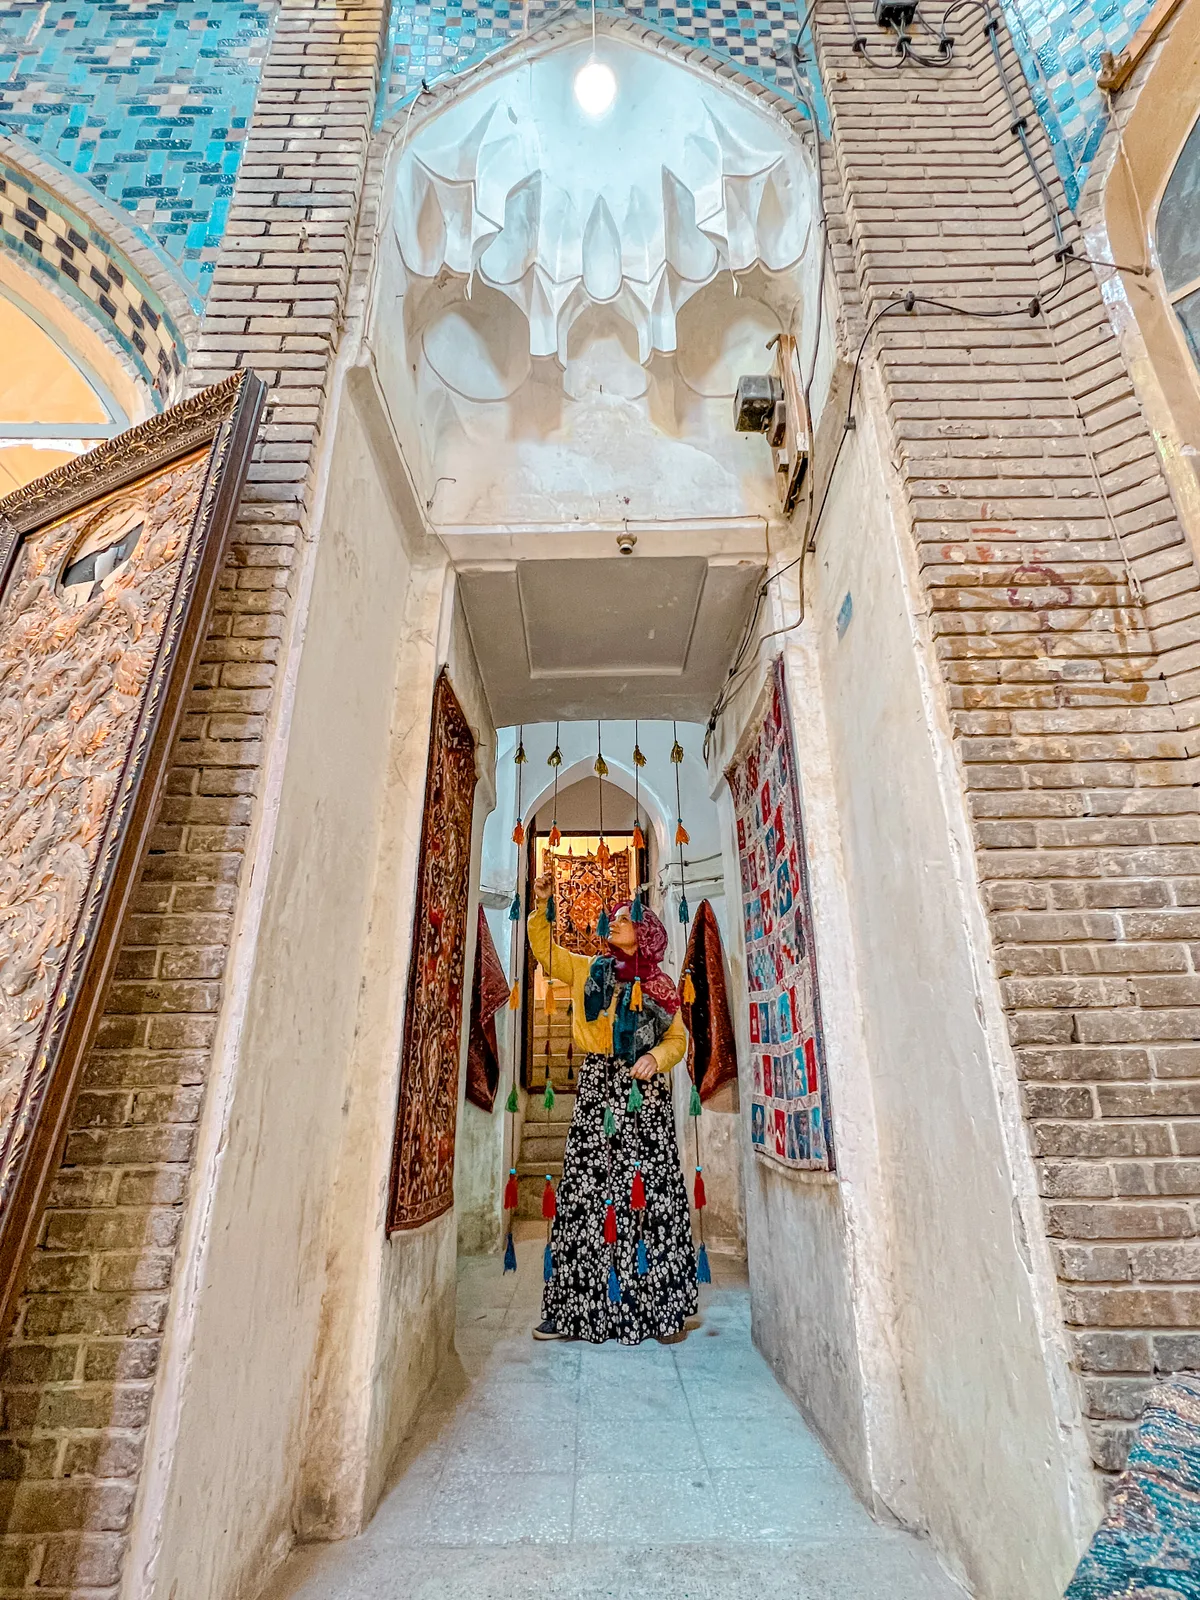
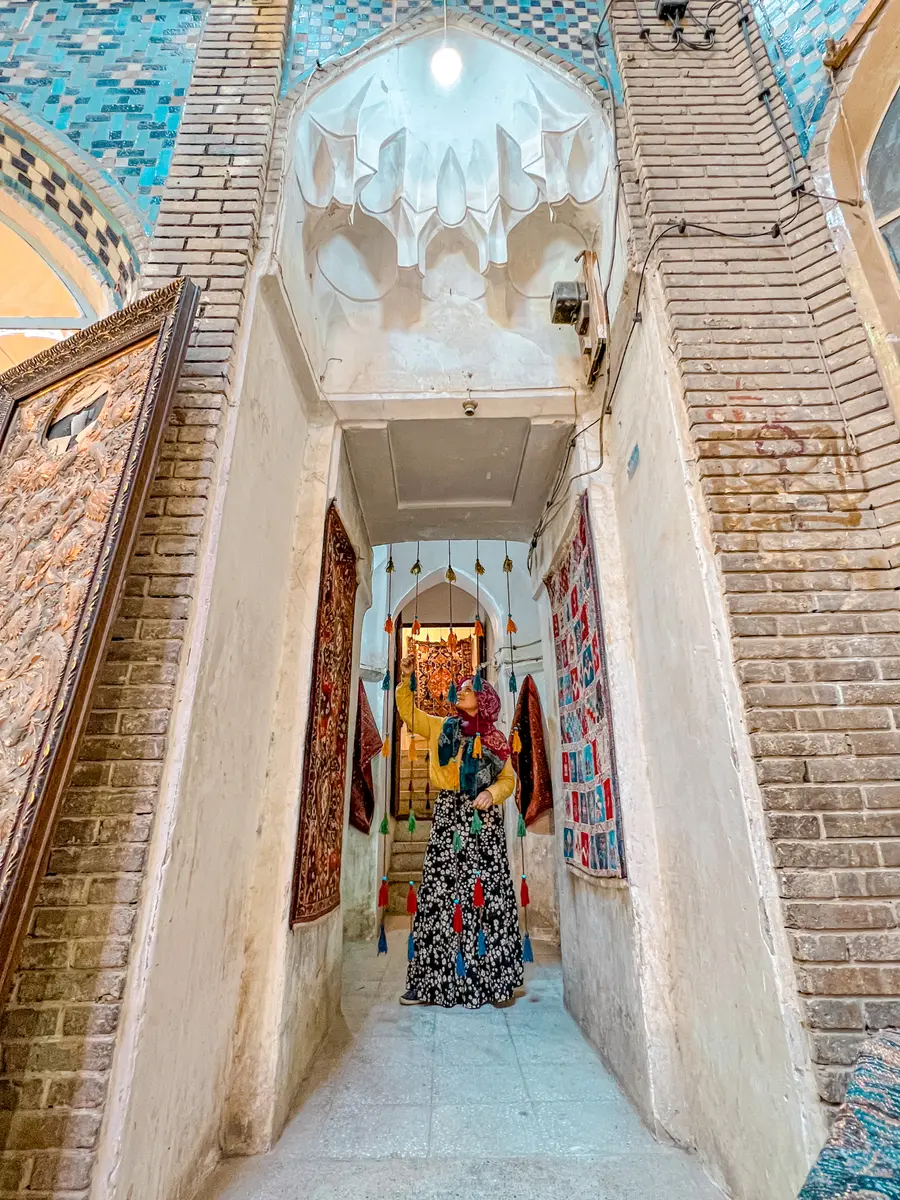
Vendas: reduz peso da foto do hero e prioriza seu carregamento
Redimensiona ira.webp de 1200x1600 (432KB) para 900x1200 (200KB) e
adiciona fetchpriority="high" para reduzir o LCP, que estava em 6,1s
no PageSpeed Insights.

Changed region(s): [[0.4667, 0.555, 0.4978, 0.5858]]

diff --git a/pages/vendas.html b/pages/vendas.html
@@ -862,7 +862,7 @@ src="https://www.facebook.com/tr?id=1527384455441746&ev=PageView&noscript=1"
         <span class="tarja-sep tarja-sep-duracao">·</span>
         <span class="tarja-duracao">⏱ ~3h30</span>
       </div>
-      <img src="../assets/fotos/ira.webp" alt="Bruna no Irã" width="1200" height="1600" />
+      <img src="../assets/fotos/ira.webp" alt="Bruna no Irã" width="900" height="1200" fetchpriority="high" />
     </div>
     <div class="hero-content">
       <!-- Logo fundo verde — 1/4 superior direito, integrada ao verde -->
